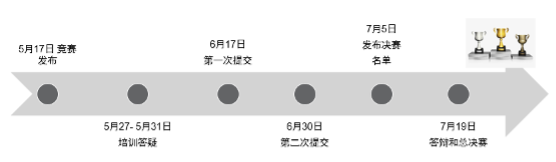
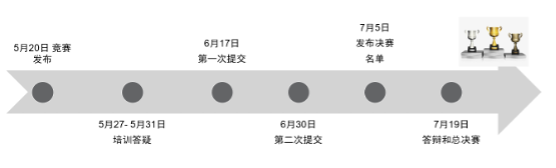
ccc2024_final_v1

diff --git a/_pages/info.md b/_pages/info.md
@@ -27,13 +27,15 @@ https://www.wjx.top/vm/mBrTh1g.aspx
 
 本赛题的评分主要包含两个部分，为推理速度和推理模型精度。其中推理速度评分占比70%，模型精度占比30%。
 
-4.1推理速度：推理速度分为prompt处理速度和token生成速度。Prompt处理速度：是指模型接收输入的prompt（提示）并处理所有输入token，直到生成第一个输出token所需的时间，即Prefill速度。Token生成速度：是指模型在生成第一个输出token之后，继续生成后续token的速度，即Decode速度。本赛题采用生成128个token的平均速度作为decode速度。
+**推理速度：**
+
+推理速度分为prompt处理速度和token生成速度。Prompt处理速度：是指模型接收输入的prompt（提示）并处理所有输入token，直到生成第一个输出token所需的时间，即Prefill速度。Token生成速度：是指模型在生成第一个输出token之后，继续生成后续token的速度，即Decode速度。本赛题采用生成128个token的平均速度作为decode速度。
 
 本赛题采用指标tokens/s，在给定prompt中，推理速度越快越好。本赛题分别以参赛者最快运行时间 $Decode_{best}$ 、$Prefill_{best}$为基准，推理生成速度评判分数计算如下：
 
 $$Runtime = 70\% * ({Decode \over 2*Decode_{best}} + {Prefill \over 2*Prefill_{best}})$$
 
-4.2模型精度的评估指标如下：
+**模型精度的评估指标：**
 
 本赛题使用困惑度(PPL)作为模型精度的评估指标，以模型在给定语料困惑度$P_{best}$ 为基准，模型精度评估分数计算如下：
 

diff --git a/_pages/schedule.md b/_pages/schedule.md
@@ -7,7 +7,7 @@ sidebar: true
 icon: fa fa-calendar
 order: 1
 ---
-5月17日 竞赛发布
+5月20日 竞赛发布
 
 5月27-31日 培训
 
